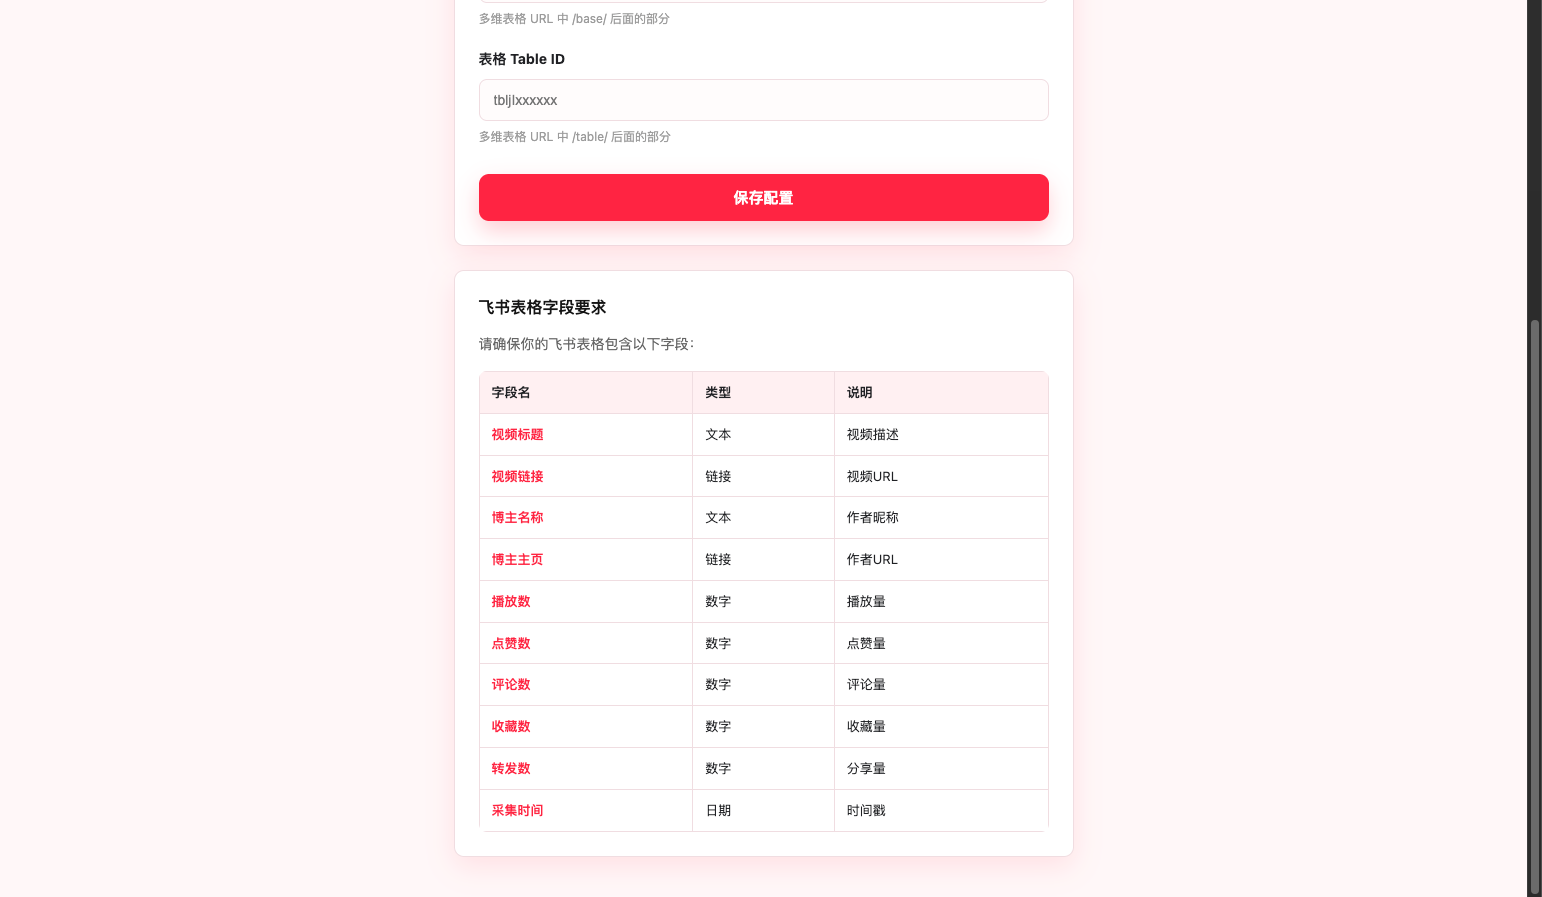
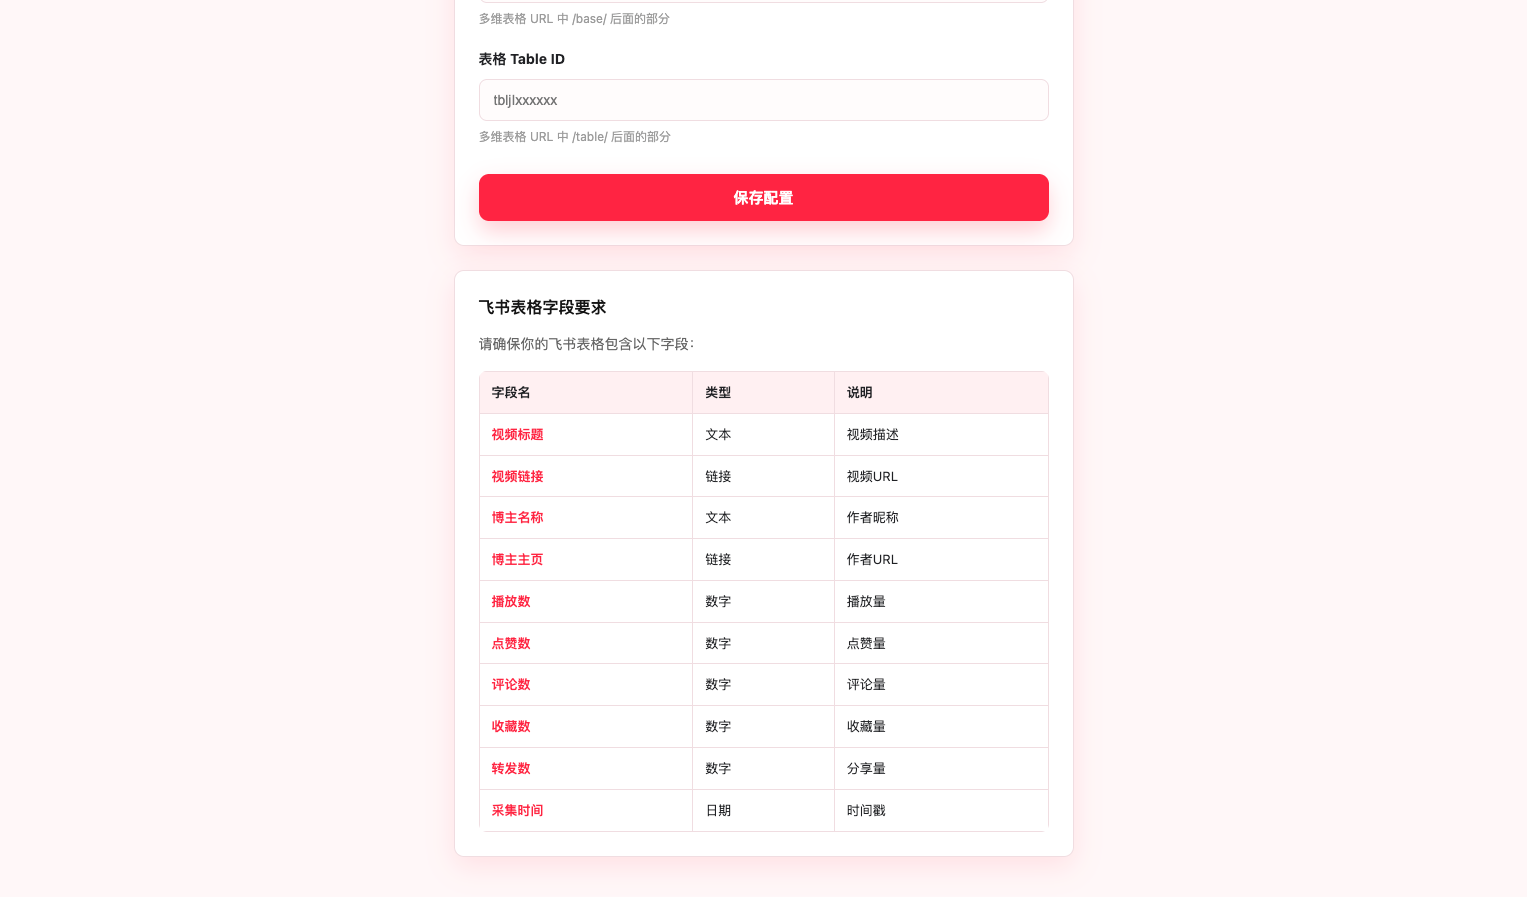
docs: 补充商店截图并去除黑边

diff --git a/screenshots/README.md b/screenshots/README.md
@@ -9,6 +9,15 @@ Recommended upload order:
 5. `06-飞书配置入口.png` - show where users enter Feishu App/Base/Table IDs.
 6. `07-飞书字段要求.png` - show the required Feishu table fields as setup support.
 
+Chrome Web Store upload-ready versions are in `store/`. These files are all 1280x800 PNGs:
+
+1. `store/01-采集结果-1280x800.png`
+2. `store/02-打开采集助手-1280x800.png`
+3. `store/03-识别用户主页-1280x800.png`
+4. `store/04-最低点赞筛选-1280x800.png`
+5. `store/05-飞书配置入口-1280x800.png`
+6. `store/06-飞书字段要求-1280x800.png`
+
 - Screenshots: 1280x800 PNG recommended, 640x400 also accepted.
 - Small promo tile: 440x280.
 - Marquee promo tile: 1400x560, optional.